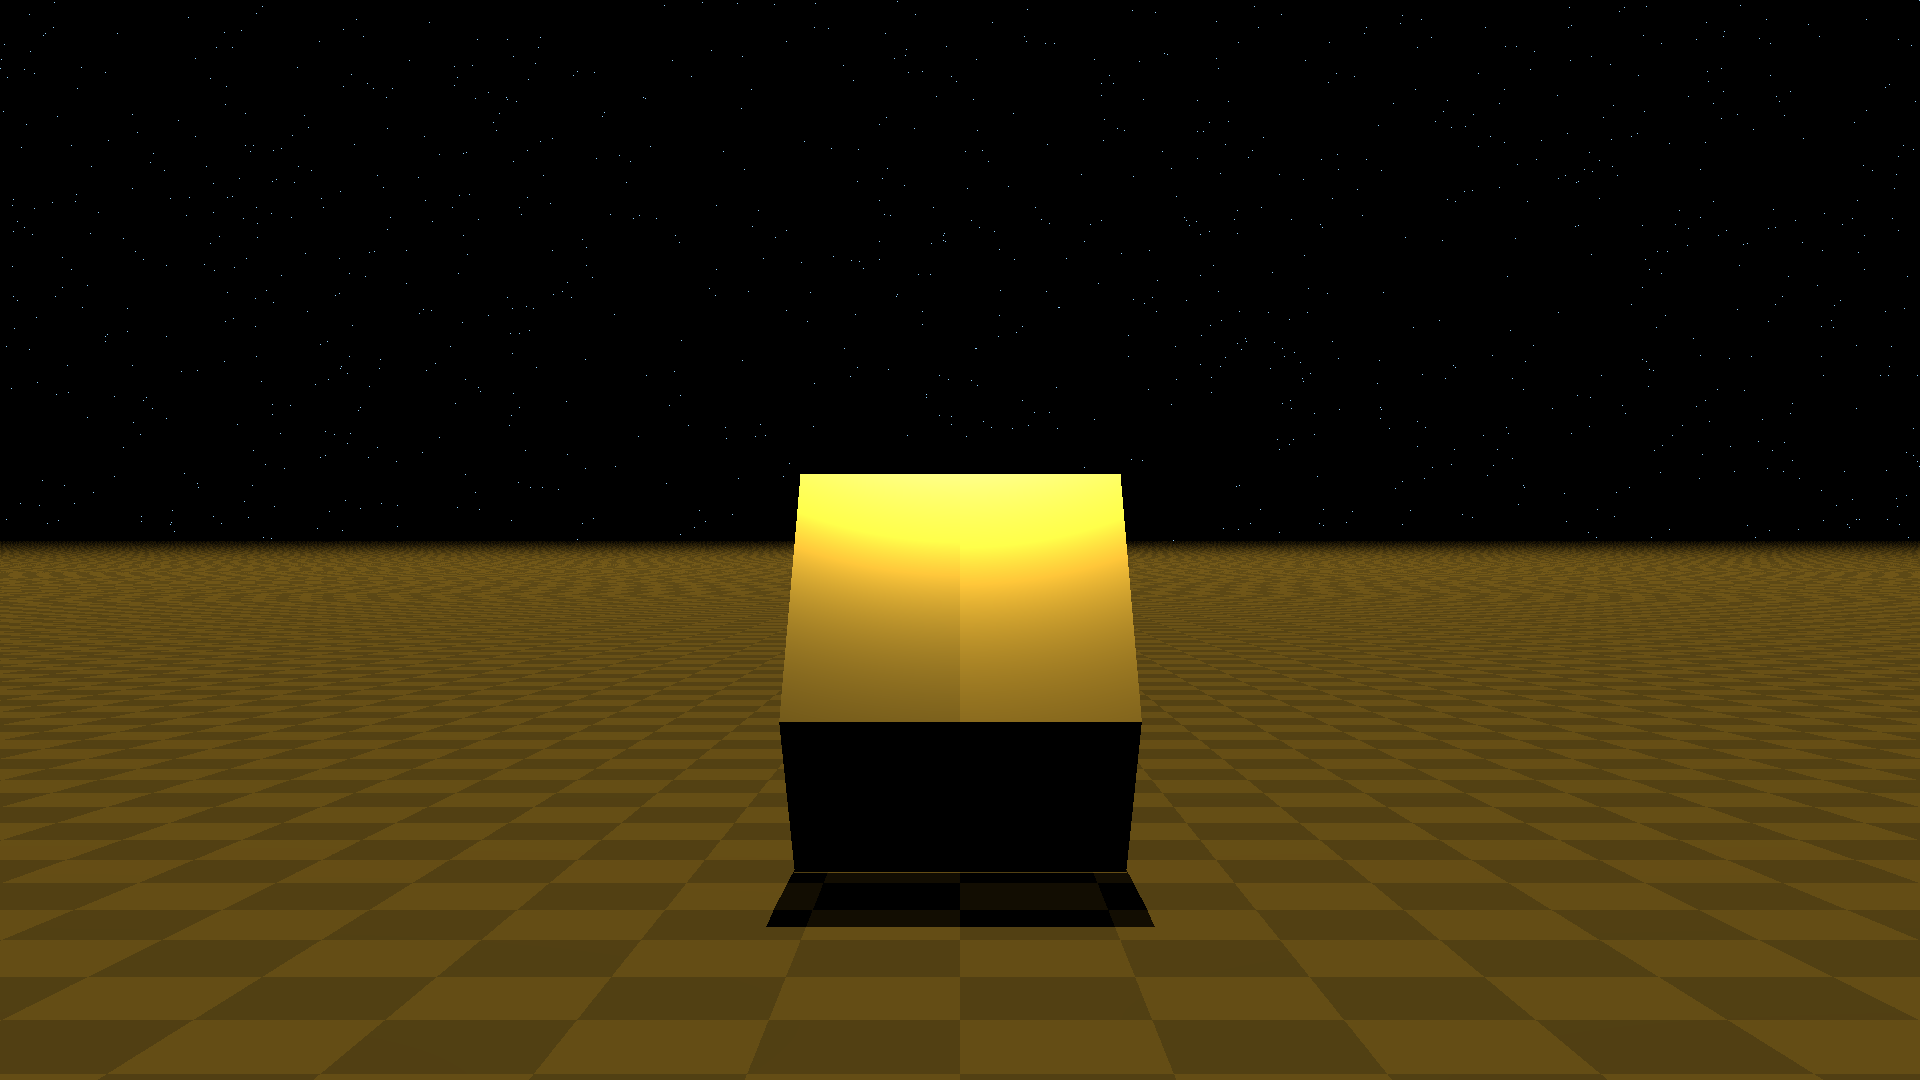
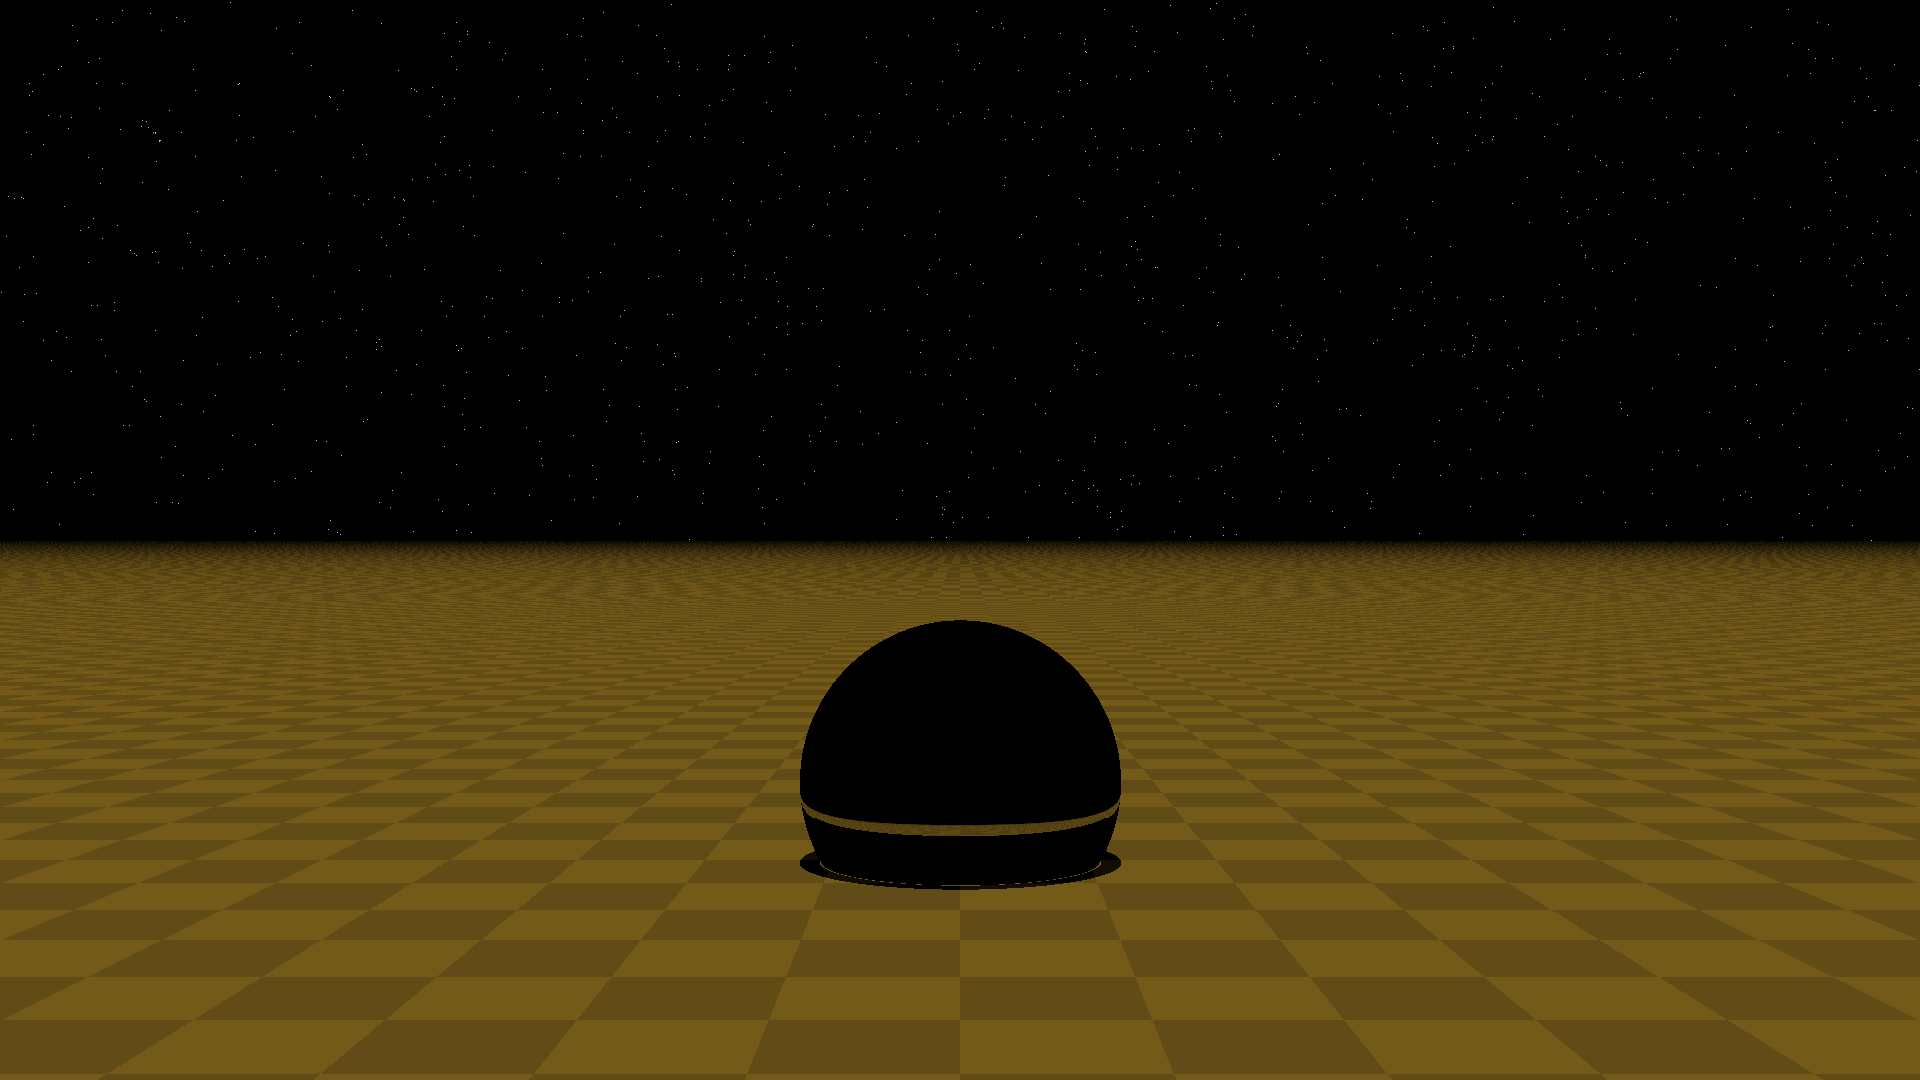
Fixed reflection of cube

Changed region(s): [[0.4062, 0.4278, 0.625, 0.8556]]

diff --git a/src/main/Renderer.java b/src/main/Renderer.java
@@ -17,7 +17,7 @@ import java.util.Random;
 public class Renderer {
     private final double LIGHTSOURCEFACTOR = 0.1; // or a bit of contrast
     private final double EPSILON = 0.01; // the difference that will be subtracted for shadowing
-    private final int MAXRECURSELEVEL = 1; // TODO: move to SDL parameter
+    private final int MAXRECURSELEVEL = 2; // TODO: move to SDL parameter
     private final double DW = 0.1; // width lightbeam coming from source
 
     private final JFrame frame;
@@ -189,7 +189,6 @@ public class Renderer {
             normalVector = Utility.subtract(normalVector, center);
         }
         normalVector = Utility.normalize(normalVector);
-        //normalVector[3] = 0;
 
         hitpoint = new Vector(Utility.multiplyMatrices(hitpoint.getCoords(), currentObject.getTransformation().getTransformation()));
 
@@ -231,7 +230,7 @@ public class Renderer {
 
             if (isInShadow(start, dir)) {
                 for (int i = 0; i < 3; i++) {
-                    rgb[i] -= rgb[i] * 0.1 * LIGHTSOURCEFACTOR; // dim the scene a bit
+                    rgb[i] -= rgb[i] * 0.01 * LIGHTSOURCEFACTOR; // dim the scene a bit
                 }
                 continue;
             }
@@ -327,11 +326,11 @@ public class Renderer {
 
             recurseLevel++;
 
-            if (currentObject.getMaterial().getShininess() >= 0.6) {
+            if (currentObject.getMaterial().getShininess() >= 0.6 && !(currentObject instanceof Plane)) {
                 // spawn ray from hitpoint and call getShade()
-                Vector r = Utility.subtract(ray.getDir(), Utility.multiplyElementWise(2*dirDotNormalvector, vectorNormalVector));
+                Vector r = Utility.subtract(ray.getDir(), Utility.multiplyElementWise(2 * dirDotNormalvector, vectorNormalVector));
 
-                Ray reflection = new Ray(Utility.normalize(start), r);
+                Ray reflection = new Ray(start, r);
 
                 Tuple<Object, Intersection> objectIntersection = getHit(reflection);
 
@@ -339,10 +338,12 @@ public class Renderer {
                 Intersection reflectedIntersectionHit = objectIntersection.getIntersection();
 
                 if (reflectedObjectHit != null && reflectedObjectHit != currentObject) {
-                        double[] reflectedColors = getShading(reflection, reflectedObjectHit, reflectedIntersectionHit, rgb.clone(), recurseLevel, currentObject.getMaterial().getSpeedOfLight());
+                    double[] reflectedColors = getShading(reflection, reflectedObjectHit, reflectedIntersectionHit, rgb.clone(), recurseLevel, currentObject.getMaterial().getSpeedOfLight());
 
                     for (int i = 0; i < 3; i++)
-                        rgb[i] += (float)(1/recurseLevel) * currentObject.getMaterial().getShininess() * reflectedColors[i];
+                        rgb[i] += (float) (1 / recurseLevel) * currentObject.getMaterial().getShininess() * reflectedColors[i];
+                } else {
+                    debug = 0;
                 }
             }
 
@@ -390,14 +391,12 @@ public class Renderer {
             if (u ^ v ^ w) {
                 if ((x < 0 && y > 0) || (x > 0 && y < 0)) {
                     return new double[]{0, 0, 0};
-                }
-                else {
+                } else {
                     return new double[]{1, 1, 1};
                 }
             } else if ((x < 0 && y > 0) || (x > 0 && y < 0)) {
                 return new double[]{1, 1, 1};
-            }
-            else {
+            } else {
                 return new double[]{0, 0, 0};
             }
         }

diff --git a/src/main/object/Cube.java b/src/main/object/Cube.java
@@ -6,17 +6,17 @@ import main.Ray;
 import main.Vector;
 
 public class Cube extends Object {
-    private final int[][] normalVectors;
+    private final double[][] normalVectors;
 
     public Cube(Material material) {
         super(material);
-        this.normalVectors = new int[6][4];
-        normalVectors[0] = new int[]{0, 1, 0, 0};
-        normalVectors[1] = new int[]{0, -1, 0, 0};
-        normalVectors[2] = new int[]{1, 0, 0, 0};
-        normalVectors[3] = new int[]{-1, 0, 0, 0};
-        normalVectors[4] = new int[]{0, 0, 1, 0};
-        normalVectors[5] = new int[]{0, 0, -1, 0};
+        this.normalVectors = new double[6][4];
+        normalVectors[0] = new double[]{0, 0, -1, 0};
+        normalVectors[1] = new double[]{0, 0, 1, 0};
+        normalVectors[2] = new double[]{0, 1, 0, 0};
+        normalVectors[3] = new double[]{0, -1, 0, 0};
+        normalVectors[4] = new double[]{1, 0, 0, 0};
+        normalVectors[5] = new double[]{-1, 0, 0, 0};
     }
 
     @Override
@@ -97,6 +97,6 @@ public class Cube extends Object {
 
         Vector secondCollisionPoint = new Vector(xExit, yExit, zExit, 1);
 
-        return new Intersection(firstCollisionPoint, secondCollisionPoint, tIn, tOut, new double[]{normalVectors[inSurf][0], normalVectors[inSurf][1], normalVectors[inSurf][2], normalVectors[inSurf][3]});
+        return new Intersection(firstCollisionPoint, secondCollisionPoint, tIn, tOut, normalVectors[inSurf]);
     }
 }

diff --git a/src/main/Main.java b/src/main/Main.java
@@ -22,7 +22,7 @@ public class Main {
         */
 
         // scene
-        Vector lightsourceWhite = new Vector(500, 0, -2000, 1); // location
+        Vector lightsourceWhite = new Vector(1800, 0, -2000, 1); // location
         Vector lightsourceBlue = new Vector(5000, -500, -1000, 1); // location
         Vector lightsourceRed = new Vector(500, 500, -1000, 1); // location
         Vector lightsourceOrange = new Vector(-1000, 1000, -100, 1); // location
@@ -30,7 +30,7 @@ public class Main {
 
         Scene scene = new Scene(); // light color
         scene.addLightsource(lightsourceWhite, new double[]{155, 155, 155});
-       /* scene.addLightsource(lightsourceBlue, new double[]{0, 0, 255});
+        /*scene.addLightsource(lightsourceBlue, new double[]{0, 0, 255});
         scene.addLightsource(lightsourceRed, new double[]{180, 0, 0});
         scene.addLightsource(lightsourceOrange, new double[]{200, 50, 0});
         //scene.addLightsource(lightsourcePink, new double[]{255, 30, 122});

diff --git a/src/main/Utility.java b/src/main/Utility.java
@@ -130,6 +130,16 @@ public class Utility {
         return sum;
     }
 
+    public static Vector sum(Vector vectorOne, Vector vectorTwo) {
+        double[] sum = new double[vectorOne.getCoords().length];
+
+        for (int i = 0; i < vectorOne.getCoords().length; i++) {
+            sum[i] = vectorOne.getCoords()[i] + vectorTwo.getCoords()[i];
+        }
+
+        return new Vector(sum);
+    }
+
     public static Vector subtract(Vector vectorOne, Vector vectorTwo) {
         double[] result = new double[vectorOne.getCoords().length];
 
